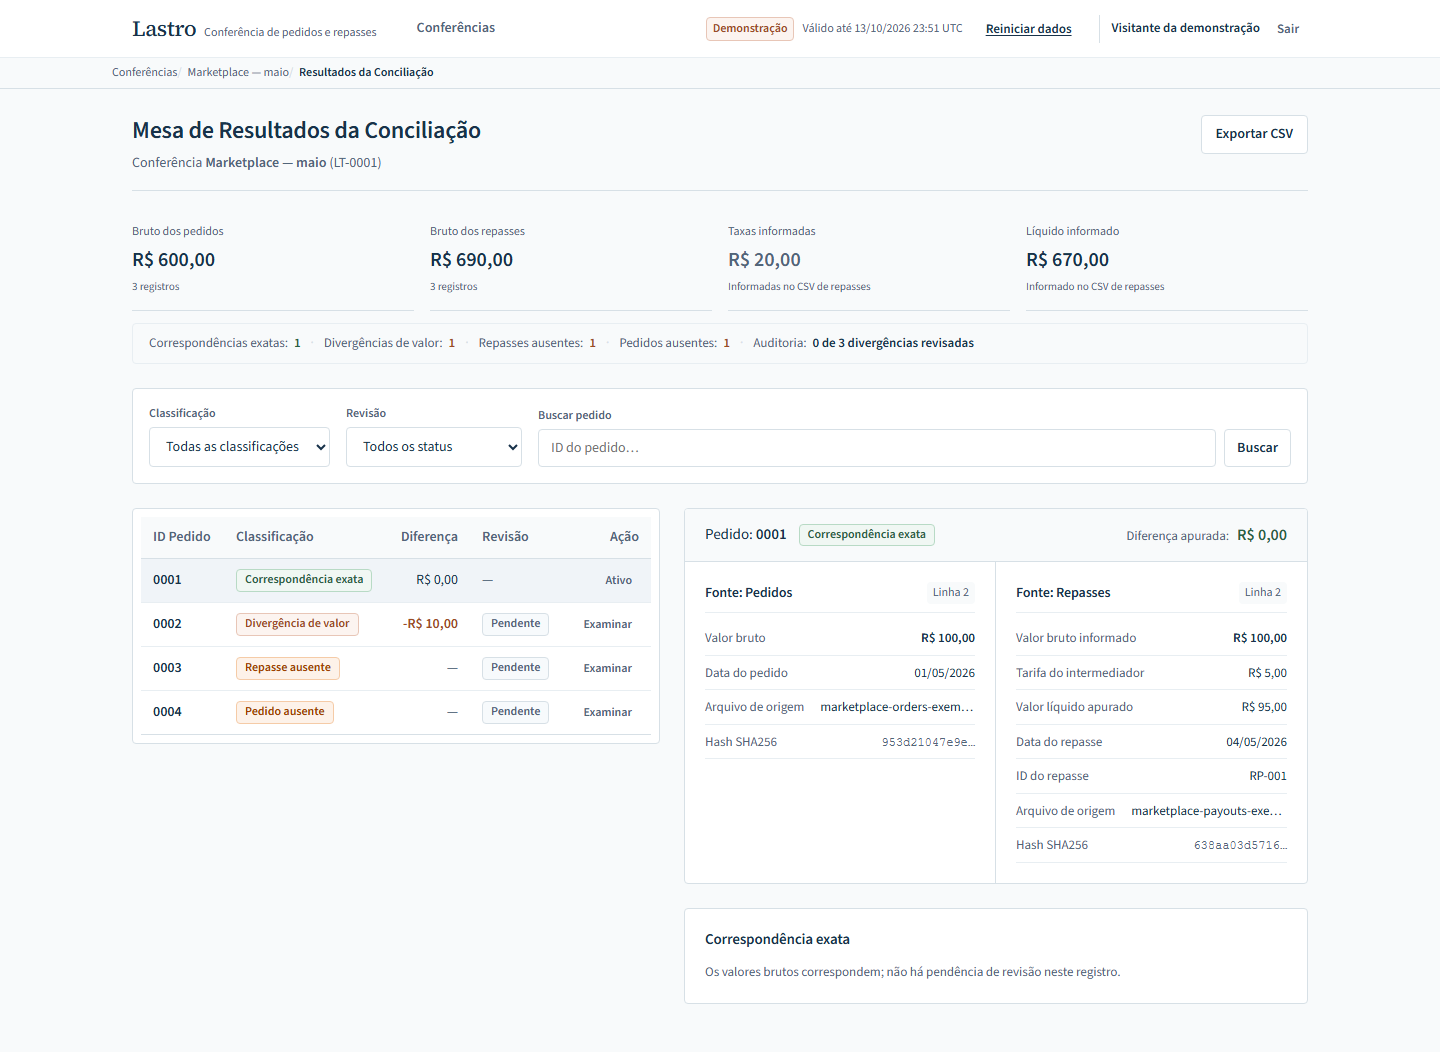
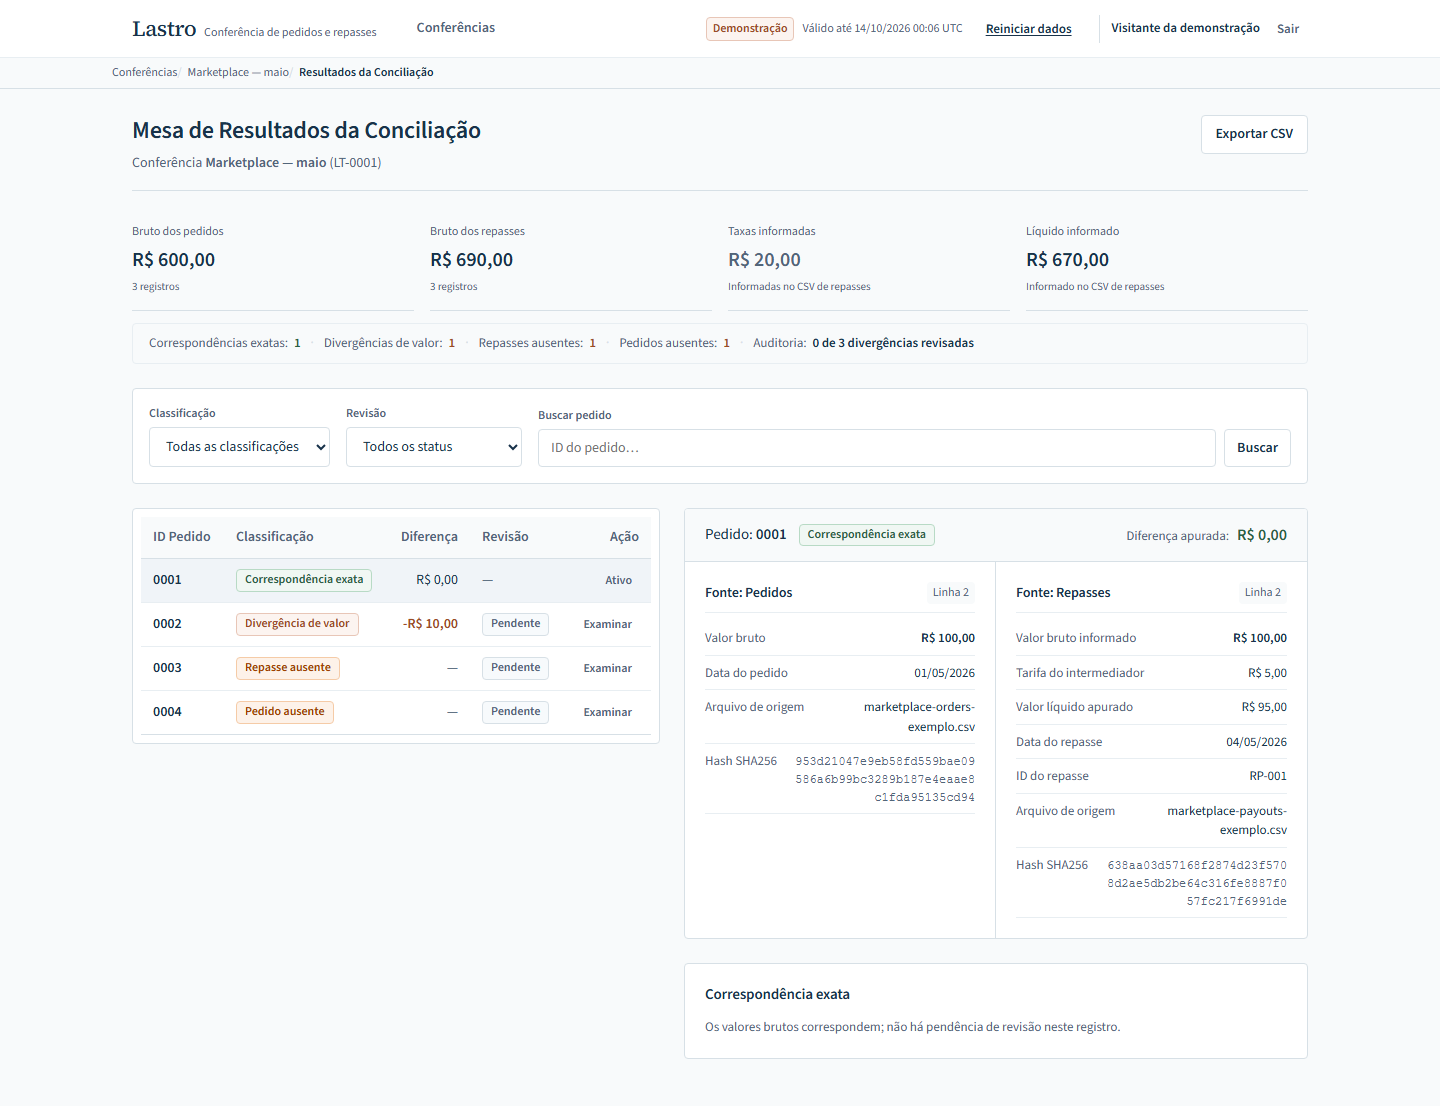
fix: refresh review progress and expose complete source evidence

diff --git a/tests/e2e/reconciliation.spec.ts b/tests/e2e/reconciliation.spec.ts
@@ -32,6 +32,33 @@ async function accessible(page: Page) {
   expect(await page.evaluate(() => document.documentElement.scrollWidth)).toBeLessThanOrEqual(await page.evaluate(() => innerWidth));
 }
 
+test('keyboard entry and reset dialog keep focus and Escape returns to the trigger', async ({ page }) => {
+  await page.goto('/entrar');
+  const start = page.getByRole('button', { name: 'Iniciar demonstração privada' });
+  for (let step = 0; step < 12 && !(await start.evaluate(el => el === document.activeElement)); step++) {
+    await page.keyboard.press('Tab');
+  }
+  await expect(start).toBeFocused();
+  await page.keyboard.press('Enter');
+  await page.waitForURL('**/conferencias');
+  const reset = page.getByRole('button', { name: 'Reiniciar dados', exact: true });
+  for (let step = 0; step < 16 && !(await reset.evaluate(el => el === document.activeElement)); step++) {
+    await page.keyboard.press('Tab');
+  }
+  await expect(reset).toBeFocused();
+  await page.keyboard.press('Enter');
+  const cancel = page.getByRole('button', { name: 'Cancelar', exact: true });
+  const confirm = page.getByRole('button', { name: 'Sim, reiniciar dados', exact: true });
+  await expect(cancel).toBeFocused();
+  await page.keyboard.press('Shift+Tab');
+  await expect(confirm).toBeFocused();
+  await page.keyboard.press('Tab');
+  await expect(cancel).toBeFocused();
+  await page.keyboard.press('Escape');
+  await expect(page.getByRole('dialog')).toHaveCount(0);
+  await expect(reset).toBeFocused();
+});
+
 test('imports real CSVs, reviews and reopens a divergence, exports every result and reloads', async ({ page }) => {
   await startDemo(page);
   await createConference(page);
@@ -93,7 +120,7 @@ test('invalid preview keeps the source absent and allows a corrected file on mob
 test('two visitors are isolated and reset invalidates a page in another tab', async ({ page, browser }) => {
   await startDemo(page);
   const listing = await page.request.get('/conferencias', { headers: { Accept: 'application/json' } });
-  const first = (await listing.json()).conferences[0];
+  const first = (await listing.json()).conferences.find((conference: { run: unknown }) => conference.run);
   const other = await browser.newContext({ baseURL: new URL(page.url()).origin });
   try {
     const otherPage = await other.newPage();

diff --git a/resources/js/pages/Runs/Show.vue b/resources/js/pages/Runs/Show.vue
@@ -1,5 +1,5 @@
 <script setup lang="ts">
-import { ref, computed } from 'vue';
+import { ref, computed, watch } from 'vue';
 import { router } from '@inertiajs/vue3';
 import AppLayout from '../../layouts/AppLayout.vue';
 import SourceComparison from '../../components/SourceComparison.vue';
@@ -36,6 +36,11 @@ const searchQuery = ref<string>(props.filters.search || '');
 // Estado reativo da execução para atualização do resumo de auditoria
 const currentRun = ref<RunProjection>(props.run);
 let runSummarySeq = 0;
+watch(() => props.run, (run) => {
+  ++runSummarySeq;
+  currentRun.value = run;
+  summaryError.value = null;
+});
 
 // Lista de resultados local para permitir atualizações instantâneas de revisão sem perder totais
 const localResults = ref<ResultProjection[]>(props.results.items);
@@ -172,6 +177,7 @@ async function handleReloadResult() {
       if (index !== -1) {
         localResults.value[index] = updatedResult;
       }
+      await refreshRunSummary();
     }
   } catch {
     if (selectedResultId.value === requestedId) reloadError.value = 'Não foi possível carregar a versão atual. Sua nota foi mantida. Tente novamente ou volte à entrada se o ambiente expirou.';
@@ -728,11 +734,12 @@ async function handleReloadResult() {
     text-align: left;
     color: var(--color-ink);
     background: var(--color-surface);
-    border: 1px solid var(--color-border);
-    border-radius: var(--radius);
+    border: 0;
+    border-bottom: 1px solid var(--color-border);
+    border-radius: 0;
     overflow-wrap: anywhere;
   }
-  .result-record[aria-pressed="true"] { background: var(--color-page); border-color: var(--color-ink); }
+  .result-record[aria-pressed="true"] { background: var(--color-page); outline: 1px solid var(--color-ink); outline-offset: -1px; }
   .record-action { font-weight: 600; text-decoration: underline; text-underline-offset: 0.2em; }
   .pagination-bar { flex-wrap: wrap; gap: 0.75rem; }
 }

diff --git a/tests/frontend/runs-show-summary-reload.spec.ts b/tests/frontend/runs-show-summary-reload.spec.ts
@@ -81,6 +81,23 @@ describe('Runs/Show - Atualizacao de resumo por GET /execucoes/:id e recarga por
     ],
   };
 
+  it('uses fresh server summary when Inertia preserves the component during navigation', async () => {
+    const wrapper = mount(RunsShow, { props: { conference: mockConference, run: initialRun, results: mockResults, filters: { page: 1, pageSize: 10 } } });
+    await wrapper.setProps({ run: { ...initialRun, summary: { ...initialRun.summary, reviewed: 1 } } });
+    expect(wrapper.text()).toContain('1 de 2 divergências revisadas');
+  });
+
+  it('refreshes global progress when recovering the version changed in another tab', async () => {
+    const spy = vi.spyOn(apiModule, 'apiFetch').mockImplementation(async url => url === '/resultados/res-1'
+      ? { ...mockResults.items[0], version: 2, reviewStatus: 'reviewed' }
+      : { run: { ...initialRun, summary: { ...initialRun.summary, reviewed: 1 } } });
+    const wrapper = mount(RunsShow, { props: { conference: mockConference, run: initialRun, results: mockResults, filters: { page: 1, pageSize: 10 } } });
+    wrapper.findComponent({ name: 'ReviewPanel' }).vm.$emit('reload-requested');
+    await flushPromises();
+    expect(wrapper.text()).toContain('1 de 2 divergências revisadas');
+    spy.mockRestore();
+  });
+
   it('reports failed summary and version reload instead of silently presenting stale data', async () => {
     const apiFetchSpy = vi.spyOn(apiModule, 'apiFetch').mockRejectedValue(new Error('Network unavailable'));
     const wrapper = mount(RunsShow, { props: { conference: mockConference, run: initialRun, results: mockResults, filters: { page: 1, pageSize: 10 } } });

diff --git a/resources/js/components/SourceComparison.vue b/resources/js/components/SourceComparison.vue
@@ -91,7 +91,7 @@ const classificationClass = computed(() => {
           <div class="field-row">
             <span class="field-label">Hash SHA256</span>
             <span class="field-value hash-code tabular-nums" :title="result.order.normalizedHash">
-              {{ result.order.normalizedHash.slice(0, 12) }}…
+              {{ result.order.normalizedHash }}
             </span>
           </div>
         </div>
@@ -137,7 +137,7 @@ const classificationClass = computed(() => {
           <div class="field-row">
             <span class="field-label">Hash SHA256</span>
             <span class="field-value hash-code tabular-nums" :title="result.payout.normalizedHash">
-              {{ result.payout.normalizedHash.slice(0, 12) }}…
+              {{ result.payout.normalizedHash }}
             </span>
           </div>
         </div>
@@ -293,6 +293,7 @@ const classificationClass = computed(() => {
 }
 
 .field-value {
+  min-width: 0;
   color: var(--color-ink);
   text-align: right;
   word-break: break-all;
@@ -309,10 +310,8 @@ const classificationClass = computed(() => {
 }
 
 .file-name {
-  max-width: 14rem;
-  overflow: hidden;
-  text-overflow: ellipsis;
-  white-space: nowrap;
+  overflow-wrap: anywhere;
+  word-break: normal;
 }
 
 /* Mobile 390px — Comparação empilhada e rotulada SEM rolagem horizontal */
@@ -326,8 +325,5 @@ const classificationClass = computed(() => {
     border-bottom: 1px solid var(--color-border);
   }
 
-  .file-name {
-    max-width: 10rem;
-  }
 }
 </style>

diff --git a/tests/frontend/missing-order.spec.ts b/tests/frontend/missing-order.spec.ts
@@ -22,7 +22,7 @@ describe('SourceComparison - Pedido ausente', () => {
         fee: '15.00',
         net: '335.00',
         sourceId: 'src-payouts-1',
-        normalizedHash: 'abc123hash',
+        normalizedHash: 'a'.repeat(64),
         displayFilename: 'repasses-outubro.csv',
       },
       reviewEvents: [],
@@ -46,5 +46,7 @@ describe('SourceComparison - Pedido ausente', () => {
     // Difference must be null/empty/dash, not R$ 0,00
     const diffSection = wrapper.find('[data-test="difference-value"]');
     expect(diffSection.text()).not.toContain('R$ 0,00');
+    // A touch/keyboard user can read the complete origin without a hover title.
+    expect(wrapper.find('.hash-code').text()).toBe('a'.repeat(64));
   });
 });

diff --git a/resources/js/pages/Imports/Preview.vue b/resources/js/pages/Imports/Preview.vue
@@ -516,8 +516,7 @@ async function handleStartNewDemo() {
 
   .mobile-record-card {
     background-color: var(--color-surface);
-    border: 1px solid var(--color-border);
-    border-radius: var(--radius);
+    border-top: 1px solid var(--color-border);
     padding: 0.75rem 1rem;
     font-size: 0.875rem;
   }

diff --git a/resources/js/pages/Conferences/Show.vue b/resources/js/pages/Conferences/Show.vue
@@ -558,9 +558,8 @@ async function handleReconcile() {
   flex-wrap: wrap;
   gap: 1rem;
   background-color: var(--color-page);
-  border: 1px solid var(--color-border-subtle);
+  border-top: 1px solid var(--color-border-subtle);
   padding: 0.875rem 1rem;
-  border-radius: var(--radius);
 }
 
 .run-stats {

diff --git a/resources/js/components/ReviewPanel.vue b/resources/js/components/ReviewPanel.vue
@@ -152,7 +152,7 @@ async function handleReload() {
             :disabled="isSubmitting"
             @click="submitReview(true)"
           >
-            Salvar e ir para próxima
+            Salvar e próxima desta página
           </button>
         </div>
       </div>

diff --git a/tests/Feature/DemoExamplesTest.php b/tests/Feature/DemoExamplesTest.php
@@ -14,23 +14,26 @@ class DemoExamplesTest extends TestCase
 {
     use RefreshDatabase;
 
-    public function test_demo_seeds_three_real_snapshots_and_repeated_start_is_idempotent(): void
+    public function test_demo_seeds_two_real_snapshots_and_an_import_entry_and_repeated_start_is_idempotent(): void
     {
         config(['lastro.demo_examples' => true]);
         $demo = app(DemoWorkspace::class);
         $token = str_repeat('f', 64);
         $user = $demo->start($token);
-        $this->assertSame(6, DB::table('sources')->count());
-        $this->assertSame(3, DB::table('runs')->count());
-        $this->assertSame(8, DB::table('results')->count());
-        $this->assertSame(6, DB::table('source_events')->count());
-        $this->assertSame(3, DB::table('run_events')->count());
+        $this->assertSame(4, DB::table('sources')->count());
+        $this->assertSame(2, DB::table('runs')->count());
+        $this->assertSame(6, DB::table('results')->count());
+        $this->assertSame(4, DB::table('source_events')->count());
+        $this->assertSame(2, DB::table('run_events')->count());
         $conferences = DB::table('conferences')->orderBy('code')->get();
         $this->assertSame(3, ConferenceProjection::fromRow($conferences[0])['progress']['divergences']);
         $this->assertSame(0, ConferenceProjection::fromRow($conferences[1])['progress']['divergences']);
-        $this->assertSame(2, ConferenceProjection::fromRow($conferences[2])['progress']['divergences']);
+        $pending = ConferenceProjection::fromRow($conferences[2]);
+        $this->assertNull($pending['progress']);
+        $this->assertNull($pending['run']);
+        $this->assertSame(['orders' => null, 'payouts' => null], $pending['sources']);
         $this->assertSame($user->id, $demo->start($token)->id);
-        $this->assertSame(3, DB::table('runs')->count());
+        $this->assertSame(2, DB::table('runs')->count());
     }
 
     public function test_full_examples_remain_isolated_after_reset_and_collection(): void
@@ -41,16 +44,16 @@ class DemoExamplesTest extends TestCase
         $old = $demo->start($token);
         $other = $demo->start(str_repeat('b', 64));
         $new = $demo->reset(new CurrentWorkspace($old->workspace_id, null, 'demo', $old->id), $token, '127.0.0.29');
-        $this->assertSame(18, DB::table('sources')->count());
-        $this->assertSame(9, DB::table('runs')->count());
-        $this->assertNotSame($old->workspace_id, $new->workspace_id);
-        $this->assertSame(1, app(CleanupWorkspaces::class)->batch());
         $this->assertSame(12, DB::table('sources')->count());
         $this->assertSame(6, DB::table('runs')->count());
-        $this->assertSame(16, DB::table('results')->count());
+        $this->assertNotSame($old->workspace_id, $new->workspace_id);
+        $this->assertSame(1, app(CleanupWorkspaces::class)->batch());
+        $this->assertSame(8, DB::table('sources')->count());
+        $this->assertSame(4, DB::table('runs')->count());
+        $this->assertSame(12, DB::table('results')->count());
         foreach ([$new, $other] as $user) {
-            $this->assertSame(3, DB::table('runs')->where('workspace_id', $user->workspace_id)->count());
-            $this->assertSame(6, DB::table('sources')->where('workspace_id', $user->workspace_id)->count());
+            $this->assertSame(2, DB::table('runs')->where('workspace_id', $user->workspace_id)->count());
+            $this->assertSame(4, DB::table('sources')->where('workspace_id', $user->workspace_id)->count());
         }
     }
 }

diff --git a/database/seeders/DemoSeeder.php b/database/seeders/DemoSeeder.php
@@ -19,7 +19,7 @@ final class DemoSeeder
     {
         foreach (['marketplace' => 'Marketplace — maio', 'store' => 'Loja online — maio', 'loose' => 'Pedidos avulsos — maio'] as $scenario => $name) {
             $conference = $this->createConference->execute($scope, $name, '2026-05-01', '2026-05-31');
-            if (! config('lastro.demo_examples')) {
+            if (! config('lastro.demo_examples') || $scenario === 'loose') {
                 continue;
             }
             $version = $conference['version'];

diff --git a/docs/evidence/progress.md b/docs/evidence/progress.md
@@ -111,3 +111,25 @@ Hospedagem preparada: projeto Vercel Lastro e Neon Free separados, migrations
 aplicadas com TLS verificado, role limitada e APP_KEY próprio por stdin.
 Não houve deploy, GitHub público ou CI remoto do Lastro até esta verificação.
 Revisão independente e validação hospedada continuam como gates de publicação.
+
+## Fechamento da revisão independente — 12/10/2026
+
+A revisão estática inteira encontrou um resumo antigo após filtro/paginação
+ou recuperação de conflito em outra aba. Dois testes reproduziram o contador
+antigo; a correção sincroniza novas props e invalida respostas de resumo antigas.
+Carregar a versão atual também atualiza o andamento. A reinspeção marcou o
+achado importante resolvido. A ação sequencial foi delimitada explicitamente
+como “Salvar e próxima desta página”. O terceiro exemplo agora aguarda importação,
+como previsto no design: quatro fontes, duas execuções e seis resultados reais,
+mais uma conferência sem fontes. Idempotência, reset e coleta foram revalidados.
+
+A revisão visual pediu origem completa acessível, nova captura do Buscar em390px
+e redução das molduras internas. Hashes completos e nomes quebráveis dispensam
+hover; registros e prévia mobile usam regras. O veredicto do lote marcou os três
+fixes resolvidos (`ship` nesse escopo), sem alegar aprovação integral de runtime.
+
+Nova verificação completa: **283 PHP /1315 assertions**, **36 frontend /16suítes**,
+**4 E2E em14,1s**, Composer/Pint/typecheck/build/diff passaram. O quarto E2E prova
+entrada via Tab/Enter e trap/Escape/retorno de foco no reset; não declara toda a
+importação/revisão por teclado. Treze estados reais recapturados com scroll0
+mantiveram zero violações axe, zero overflow e zero pageerror.

diff --git a/README.md b/README.md
@@ -14,8 +14,9 @@ Implementação local verificada; publicação e CI remoto ainda em andamento.
 
 ## O percurso
 
-1. Inicie a demonstração privada. Os três exemplos mostram correspondência
-   exata, diferença de valor e registros sem correspondência.
+1. Inicie a demonstração privada. Dois exemplos mostram correspondência
+   exata, diferença de valor e registros sem correspondência; o terceiro
+   aguarda importação para você experimentar o percurso desde o início.
 2. Crie uma conferência para 01/05/2026–31/05/2026 e baixe os exemplos CSV.
 3. Importe pedidos e repasses. A prévia localiza erros por linha/campo; só um
    lote válido pode ser confirmado. A primeira fonte fecha o período.
@@ -108,8 +109,8 @@ validate/check-platform-reqs, Pint, PHPUnit, typecheck, Vitest, build e Playwrig
 A [CI](.github/workflows/ci.yml) prepara banco com role sem superuser, instala
 dos locks e percorre o mesmo caminho. Rodar localmente não declara CI remoto.
 
-Verificado em 12/10/2026: **283 testes PHP / 1.313 assertions**, **34 testes
-frontend** e **3 cenários Playwright**. Disputas usam processos/conexões
+Verificado em 12/10/2026: **283 testes PHP / 1.315 assertions**, **36 testes
+frontend** e **4 cenários Playwright**. Disputas usam processos/conexões
 independentes e bloqueio observado no PostgreSQL; há controle negativo da quota.
 Sessão/CSRF foram testados em duas instâncias HTTP separadas. Evidências em
 [progresso](docs/evidence/progress.md) e relatórios de tarefas.
